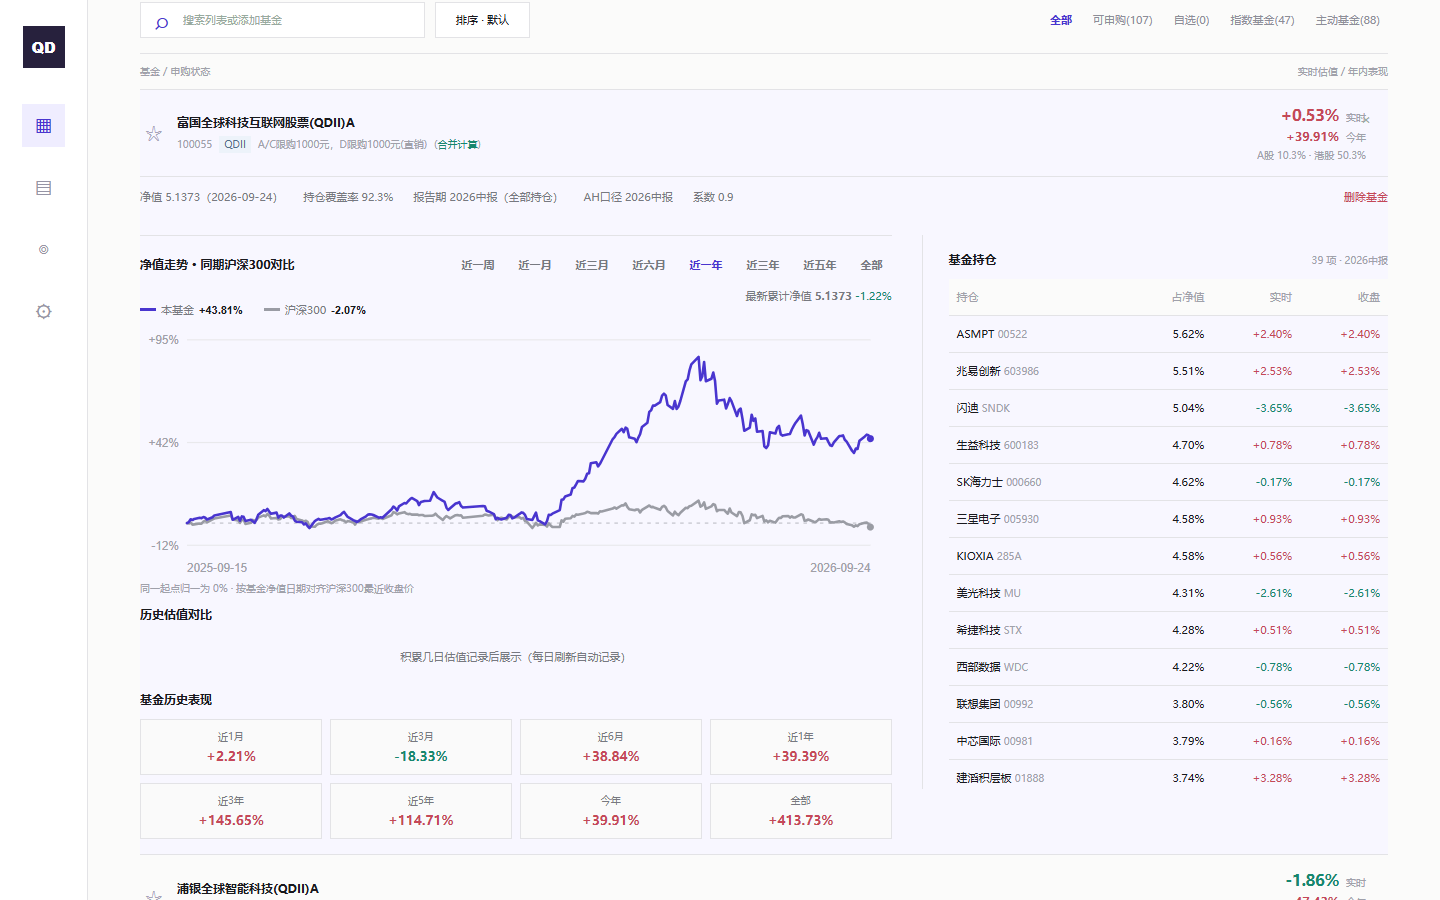
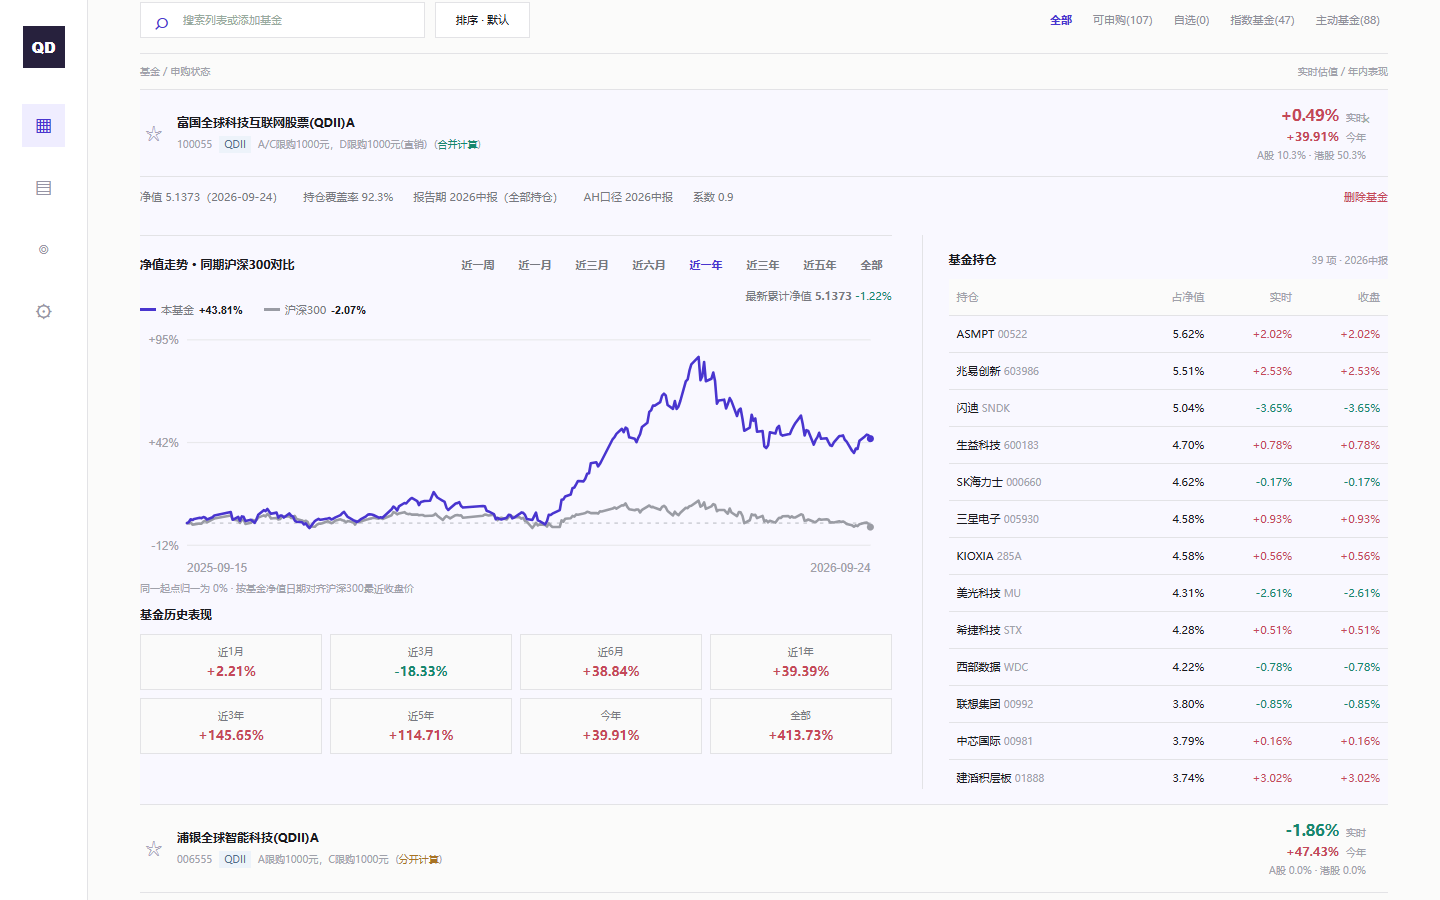
Make mobile fund details more compact

diff --git a/app.js b/app.js
@@ -218,7 +218,7 @@ var ETF_LIST = [
 ];
 
 var LS_FUNDS='fe2_funds', LS_USCLOSE='fe2_usclose', LS_SORT='fe2_sort', LS_ORDER='fe2_order';
-var funds = [], quotes = {}, usClose = {}, expanded = {};
+var funds = [], quotes = {}, usClose = {}, expanded = {}, holdingsExpanded = {};
 var curView='home', curSort='default', timer=null;
 var LS_FILTER='fe2_filter';
 /* 基金分类：按持仓市场分布（texch: 7=美股 5=港股 1/2=A股），指数基金按跟踪指数归属 */
@@ -1544,7 +1544,7 @@ function renderHome(){
         +(la?'<span class="limit-change">限额变动：'+la.text+'</span>':'')
         +'<span class="f-del" onclick="event.stopPropagation();delFund(\''+f.code+'\',\''+fesc+'\')">删除基金</span></div>'
         +'<div class="detail-grid"><div class="detail-analysis">'+histModulesHtml(f)+'</div>'
-        +'<section class="holdings-panel" aria-label="基金持仓">'
+        +'<section class="holdings-panel'+(holdingsExpanded[f.code]?' show-all':'')+'" aria-label="基金持仓">'
         +'<div class="holdings-heading"><strong>'+(f.src==='idx'?'指数与代理标的':'基金持仓')+'</strong><span>'+r.detail.length+' 项 · '+(f.reportDate||'报告期未提供')+'</span></div>'
         +(r.detail.length?'<div class="holdings-scroll"><table class="hold"><tr><th>'+(f.src==='idx'?'指数/代理标的':'持仓')+'</th><th>'+(f.src==='idx'?'权重':'占净值')+'</th><th>实时</th><th>收盘</th></tr>'
         +r.detail.slice(0,20).map(function(d){
@@ -1555,6 +1555,7 @@ function renderHome(){
         }).join('')
         +(r.detail.length>20?'<tr><td colspan="4" class="s-code" style="text-align:left">…共 '+r.detail.length+' 只持仓，以上按占净值前 20 展示</td></tr>':'')
         +'</table></div>':'<div class="holdings-empty">暂无可展示的持仓数据</div>')
+        +(r.detail.length>5?'<button type="button" class="holdings-toggle" data-total="'+r.detail.length+'" data-shown="'+Math.min(r.detail.length,20)+'" onclick="toggleHoldings(\''+f.code+'\',this)">'+(holdingsExpanded[f.code]?'收起持仓':r.detail.length>20?'查看前 20 项持仓':'查看全部 '+r.detail.length+' 项持仓')+'</button>':'')
         +'</section></div>';
     }
     return html+'</div>';
@@ -1757,7 +1758,7 @@ function estCompareHtml(f, navAll){
   var avg=rows.length?sum/rows.length:null, avgAbs=rows.length?absSum/rows.length:null;
   var title='<div class="hm-title" style="margin-top:12px"><span>历史估值对比</span></div>';
   if(!rows.length){
-    return title+'<div class="hm-empty">积累几日估值记录后展示（每日刷新自动记录）</div>';
+    return '';
   }
   return title
     +'<div class="hm-stat">共 '+rows.length+' 条记录 · 平均偏差（估值−实际） <b class="'+cls(avg)+'">'+fmtPct(avg)+'</b> · 平均绝对偏差 '+fmtPct(avgAbs)+'</div>'
@@ -1785,12 +1786,13 @@ function histModulesHtml(f){
   var last=win[win.length-1];
   var lastCum=!isNaN(last.cum)?last.cum:last.nav;
   var lastPct=isNaN(last.pct)?null:last.pct;
-  var html='<div class="hm-sec">'
+  var html='<div class="hm-sec"><div class="hm-chart-block">'
     +'<div class="hm-title"><span>净值走势 · 同期沪深300对比</span>'+tabs+'</div>'
     +'<div class="hm-nav-tip">最新累计净值 <b>'+(isNaN(lastCum)?'--':lastCum.toFixed(4))+'</b>'
     +(lastPct!==null?' <span class="'+cls(lastPct)+'">'+fmtPct(lastPct)+'</span>':'')
     +'</div>'
-    +(benchmarkRows?comparisonChartSvg(win,benchmarkRows):'<div class="hm-empty">'+(benchmarkError?'沪深300数据暂不可用：'+benchmarkError:'正在加载同期沪深300数据…')+'</div>');
+    +(benchmarkRows?comparisonChartSvg(win,benchmarkRows):'<div class="hm-empty">'+(benchmarkError?'沪深300数据暂不可用：'+benchmarkError:'正在加载同期沪深300数据…')+'</div>')
+    +'</div><div class="hm-secondary">';
   /* ② 历史估值对比（含平均偏差统计） */
   html+=estCompareHtml(f, h.nav);
   /* ③ 基金历史表现（点击与累计净值走势图联动；今年为期间收益不联动） */
@@ -1802,7 +1804,14 @@ function histModulesHtml(f){
       var on=p[2]&&chartRange[f.code]===p[2]?' on':'';
       return '<div class="hp'+on+'"'+linked+'><div class="hp-l">'+p[1]+'</div><div class="hp-v '+cls(v)+'">'+fmtPct(v)+'</div></div>';
     }).join('')+'</div>';
-  return html+'</div>';
+  return html+'</div></div>';
+}
+function toggleHoldings(code, button){
+  holdingsExpanded[code]=!holdingsExpanded[code];
+  var panel=button.closest('.holdings-panel');
+  panel.classList.toggle('show-all',holdingsExpanded[code]);
+  var shown=+button.dataset.shown, total=+button.dataset.total;
+  button.textContent=holdingsExpanded[code]?'收起持仓':total>shown?'查看前 '+shown+' 项持仓':'查看全部 '+total+' 项持仓';
 }
 function setChartRange(code, r){
   chartRange[code]=r;

diff --git a/redesign.css b/redesign.css
@@ -42,3 +42,23 @@ button:focus-visible,input:focus-visible,summary:focus-visible{outline-color:#66
   .holdings-panel{margin-top:0;border-top:0;border-left:1px solid var(--line);padding:17px 0 0 26px}
 }
 @media(max-width:700px){.holdings-scroll{max-height:none;overflow:visible}.holdings-panel{margin-top:24px}}
+.holdings-toggle{display:none}
+@media(max-width:700px){
+  .detail-grid{display:flex;flex-direction:column;gap:0;margin-top:12px}
+  .detail-analysis,.detail-analysis .hm-sec{display:contents}
+  .hm-chart-block{order:1;width:100%;min-width:0;border-top:1px solid var(--line);padding-top:14px}
+  .hm-chart-block>.hm-title{display:block;margin-bottom:6px}
+  .hm-chart-block .hm-tabs{display:flex;flex-wrap:nowrap;overflow-x:auto;gap:18px;margin-top:11px;padding-bottom:6px;scrollbar-width:thin;scrollbar-color:#cbc8df transparent}
+  .hm-chart-block .hm-tabs::-webkit-scrollbar{height:3px}
+  .hm-chart-block .hm-tab{flex:none;white-space:nowrap;padding:4px 0}
+  .hm-chart-block .hm-nav-tip{margin:0 0 6px}
+  .hm-chart-block .cmp-note{margin-bottom:0}
+  .holdings-panel{order:2;width:100%;margin:14px 0 0;padding-top:14px}
+  .holdings-panel:not(.show-all) .holdings-scroll tr:nth-child(n+7){display:none}
+  .holdings-toggle{display:block;width:100%;border:0;border-top:1px solid var(--line);background:transparent;color:var(--accent);padding:11px 0;font-size:11px;text-align:center}
+  .hm-secondary{order:3;width:100%;margin-top:15px;border-top:1px solid var(--line);padding-top:14px}
+  .hm-secondary>.hm-title{margin-top:0!important}
+  .hm-perf{grid-template-columns:repeat(4,minmax(0,1fr));gap:4px}
+  .hm-perf .hp{padding:8px 2px}
+  .hp-l{font-size:9px}.hp-v{font-size:10px;margin-top:3px}
+}

diff --git a/tests/smoke_ui.py b/tests/smoke_ui.py
@@ -42,10 +42,14 @@ with sync_playwright() as playwright:
     page.locator('.card[data-code="100055"] .f-head').click()
     page.locator('.card[data-code="100055"] .cmp-index-line').wait_for(timeout=60000)
     assert page.locator('.card[data-code="100055"] .cmp-fund-line').count() == 1
-    chart_box = page.locator('.card[data-code="100055"] .detail-analysis').bounding_box()
-    holdings_box = page.locator('.card[data-code="100055"] .holdings-panel').bounding_box()
-    assert chart_box['x'] + chart_box['width'] < holdings_box['x']
-    assert abs(chart_box['y'] - holdings_box['y']) < 50
+    page.locator('.card[data-code="100055"] .holdings-panel').wait_for()
+    side_by_side = page.evaluate("""() => {
+      const card = document.querySelector('.card[data-code="100055"]');
+      const left = card.querySelector('.detail-analysis').getBoundingClientRect();
+      const right = card.querySelector('.holdings-panel').getBoundingClientRect();
+      return left.right < right.left && Math.abs(left.y - right.y) < 50;
+    }""")
+    assert side_by_side
     assert page.locator('.card[data-code="100055"] .holdings-scroll .hold tr').count() > 1
     page.locator('.card[data-code="100055"]').evaluate("el => window.scrollTo(0, el.getBoundingClientRect().top + window.scrollY - 90)")
     page.screenshot(path=str(ROOT / "mockups" / "implemented-fund-detail-desktop.png"))
@@ -79,9 +83,21 @@ with sync_playwright() as playwright:
     mobile_page.screenshot(path=str(ROOT / "mockups" / "implemented-mobile.png"))
     mobile_page.locator('.card[data-code="100055"] .f-head').click()
     mobile_page.locator('.card[data-code="100055"] .cmp-index-line').wait_for(timeout=60000)
-    mobile_chart = mobile_page.locator('.card[data-code="100055"] .detail-analysis').bounding_box()
-    mobile_holdings = mobile_page.locator('.card[data-code="100055"] .holdings-panel').bounding_box()
-    assert mobile_holdings['y'] >= mobile_chart['y'] + mobile_chart['height']
+    mobile_page.locator('.card[data-code="100055"] .holdings-panel').wait_for()
+    stacked = mobile_page.evaluate("""() => {
+      const card = document.querySelector('.card[data-code="100055"]');
+      const chart = card.querySelector('.hm-chart-block').getBoundingClientRect();
+      const holdings = card.querySelector('.holdings-panel').getBoundingClientRect();
+      const secondary = card.querySelector('.hm-secondary').getBoundingClientRect();
+      return holdings.y >= chart.bottom && secondary.y >= holdings.bottom;
+    }""")
+    assert stacked
+    visible_rows = mobile_page.locator('.card[data-code="100055"] .holdings-scroll tr:visible')
+    assert visible_rows.count() == 6
+    mobile_page.locator('.card[data-code="100055"]').evaluate("el => window.scrollTo(0, el.getBoundingClientRect().top + window.scrollY - 8)")
+    mobile_page.screenshot(path=str(ROOT / "mockups" / "implemented-fund-detail-mobile.png"))
+    mobile_page.locator('.card[data-code="100055"] .holdings-toggle').click()
+    assert visible_rows.count() > 6
     assert mobile_page.evaluate("document.documentElement.scrollWidth <= window.innerWidth")
     print("desktop and mobile: passed")
     browser.close()

diff --git a/README.md b/README.md
@@ -22,4 +22,6 @@ python -m http.server 8877 --bind 127.0.0.1
 
 电脑端展开基金后，左侧展示净值走势与历史表现，右侧直接展示持仓；较窄屏幕恢复纵向排列。
 
+手机端展开基金时，先显示走势和前五项持仓，其余已展示持仓可按需展开（最多前二十项）；阶段表现压缩为两行，时间区间可横向滑动。没有估值快照时不显示空的历史估值模块。
+
 `app.js` 保留参考页面的数据与计算逻辑，`ui.js` 调整筛选和页面交互，`styles.css` 与 `index.html` 为重新设计的界面。该项目与旁边的财务台账相互独立。
